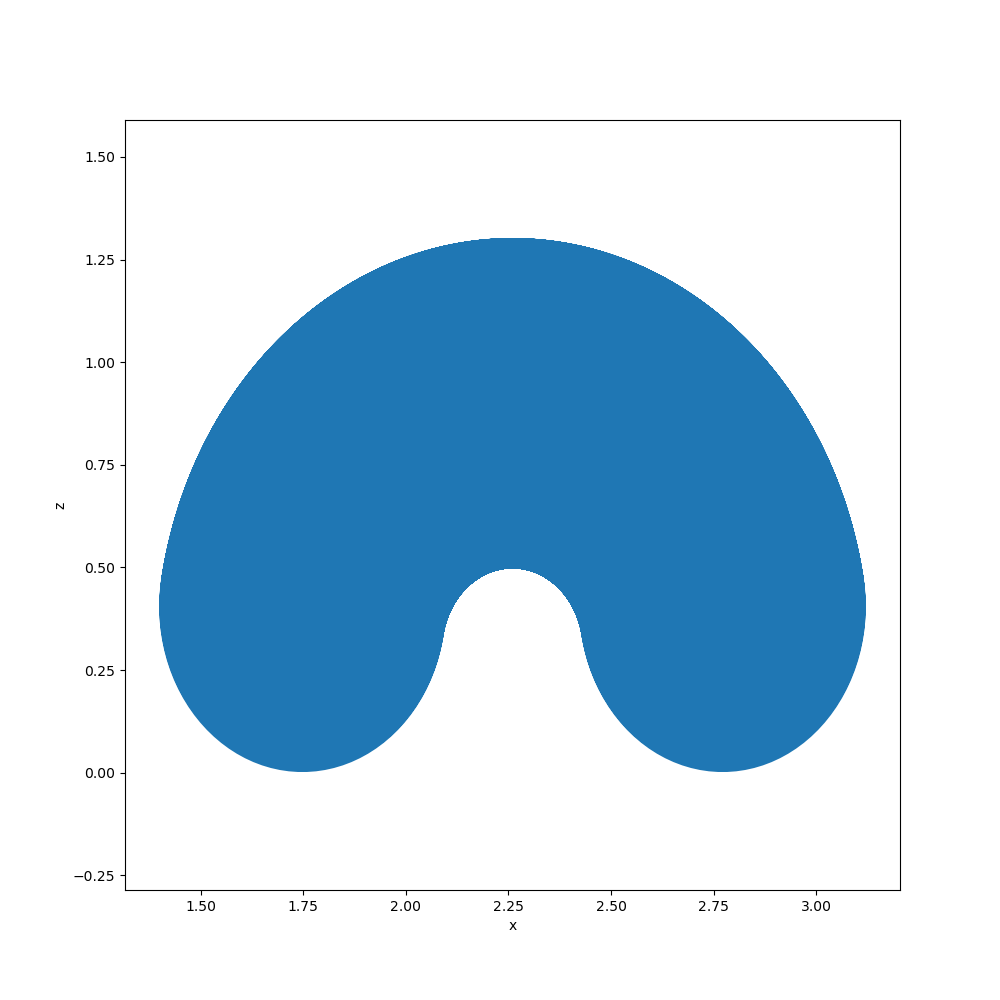
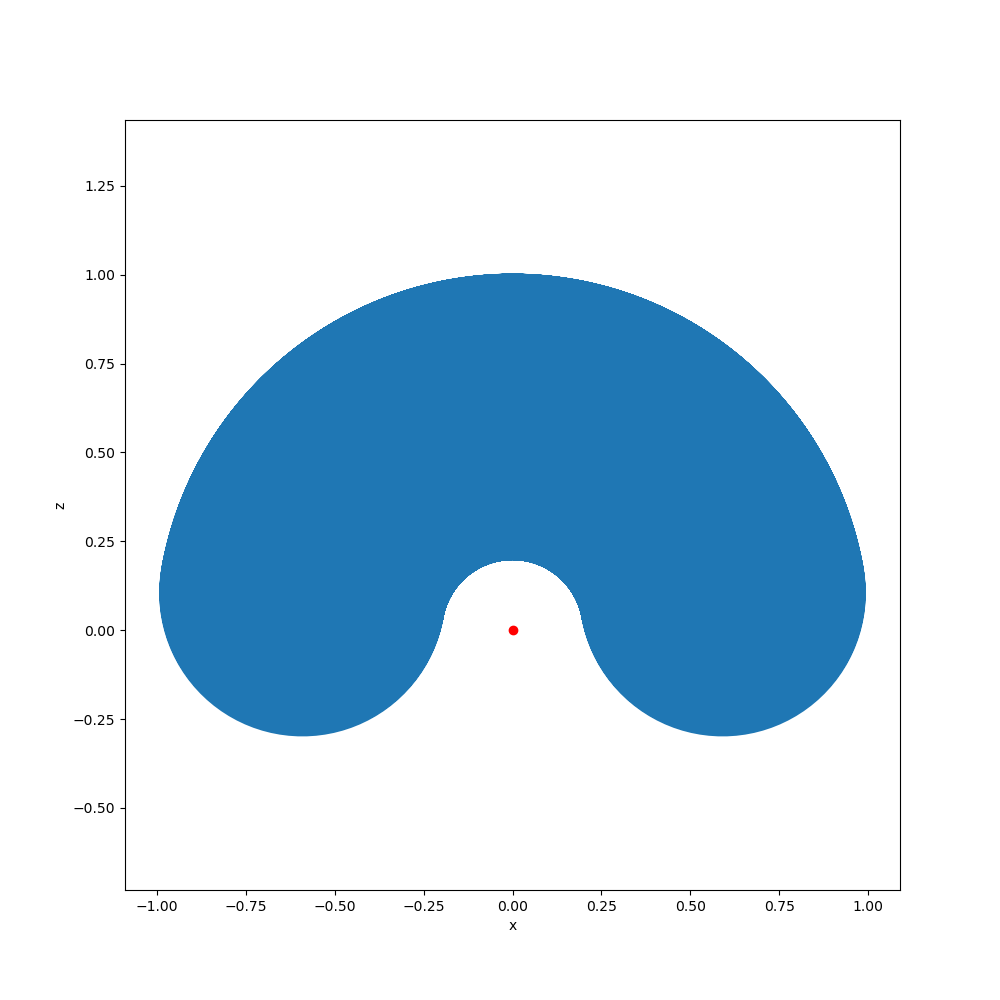
add a point and move to 0,0

diff --git a/script.py b/script.py
@@ -20,10 +20,12 @@ class Robot:
     def forward_kinematics(self, alpha=np.radians(0), beta_1=np.radians(0), beta_2=np.radians(0)):
         p_a2 = (0, 0, 0, 1)
         TR_0 = trans(np.array([self.x_r, self.y_r, self.r])) @ rot2trans(rotz(self.theta))
-        TR_D = trans(np.array([self.l/2 - self.a/2, 0, self.h + self.b])) @ rot2trans(rotz(alpha)) @ rot2trans(rotx(np.radians(90)))
+        TR_D = trans(np.array([self.l/2 - self.a/2, 0, self.h + self.b])) @ rot2trans(rotz(alpha)) 
+        TR_R = rot2trans(rotx(np.radians(90)))
         TR_A1 = rot2trans(rotz(beta_1)) @ trans(np.array([self.l_1, 0, 0]))
         TR_A2 = rot2trans(rotz(beta_2)) @ trans(np.array([self.l_2, 0, 0]))
-        TR = TR_0 @ TR_D @ TR_A1 @ TR_A2
+        # TR = TR_0 @ TR_D @ TR_R @ TR_A1 @ TR_A2
+        TR = TR_R @ TR_A1 @ TR_A2
         p_a0 = TR @ p_a2
         return p_a0
 
@@ -76,24 +78,13 @@ def joint_angles_for_circle_motion(robot, km_r=(1, 0, 0.55, 1), radius=0.25, pos
     return alphas, beta_1s, beta_2s
 
 
-def plot_angles(alphas, beta_1s, beta_2s, positions_in_circle=100):
-    point_range = np.linspace(0, 360, positions_in_circle)
-    plt.figure()
-    plt.xlabel("Positionen im Kreis in Grad")
-    plt.ylabel("Winkeleinstellungen in Grad")
-    plt.plot(point_range, np.rad2deg(alphas), label='alpha')
-    plt.plot(point_range, np.rad2deg(beta_1s), label='beta_1')
-    plt.plot(point_range, np.rad2deg(beta_2s), label='beta_2')
-    plt.legend()
-    plt.savefig("plots/gelenkwinkel.png")
-
-
 def plot_circle(reached_points):
     plt.figure(figsize=(10,10))
     plt.xlabel("x")
     plt.ylabel("z")
     plt.axis("equal")
     plt.plot(reached_points[:, 0], reached_points[:, 2], marker='', linestyle='-', markersize=3)
+    plt.scatter([0], [0], color='r')
     plt.savefig("plots/kreis.png")
 
 
